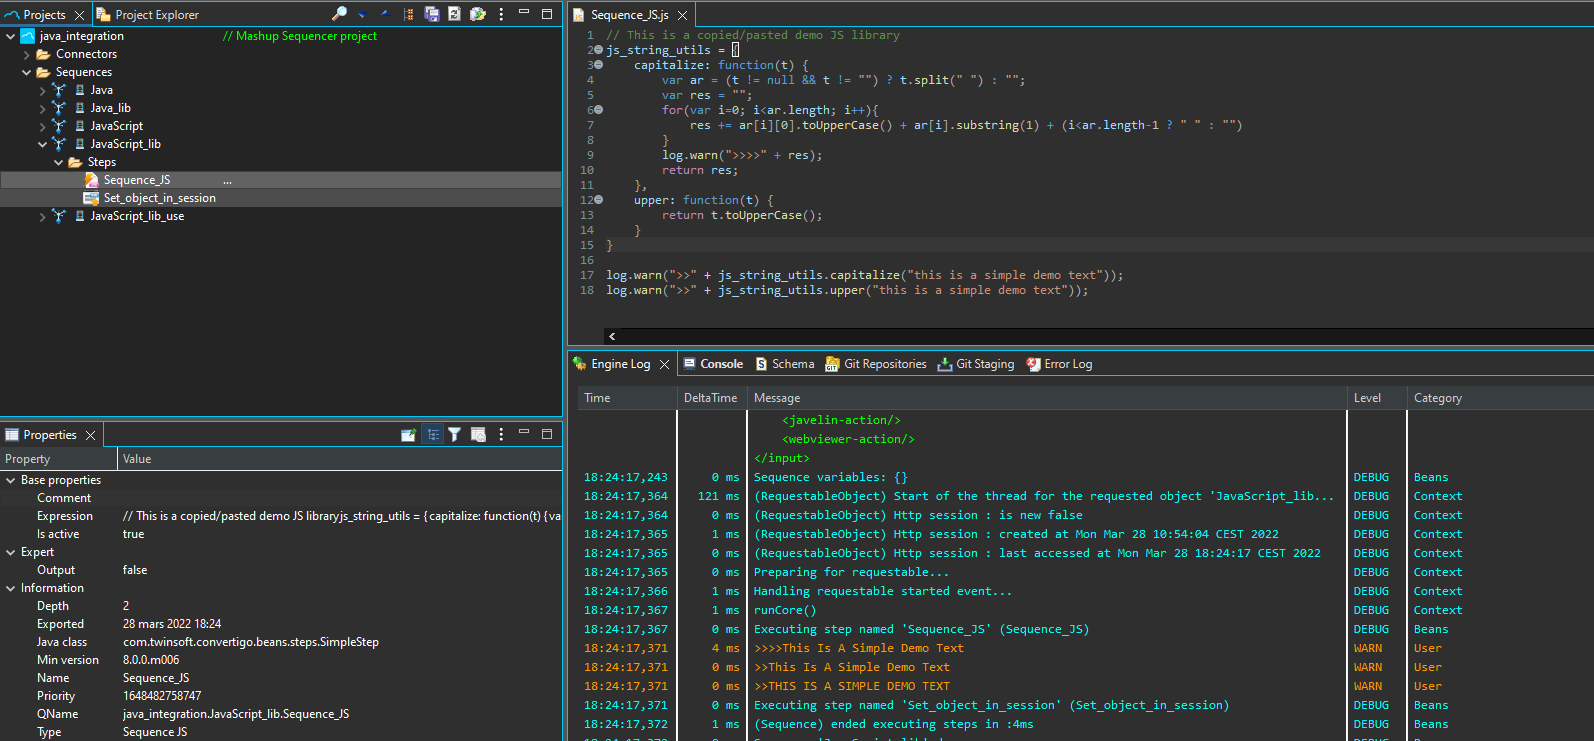
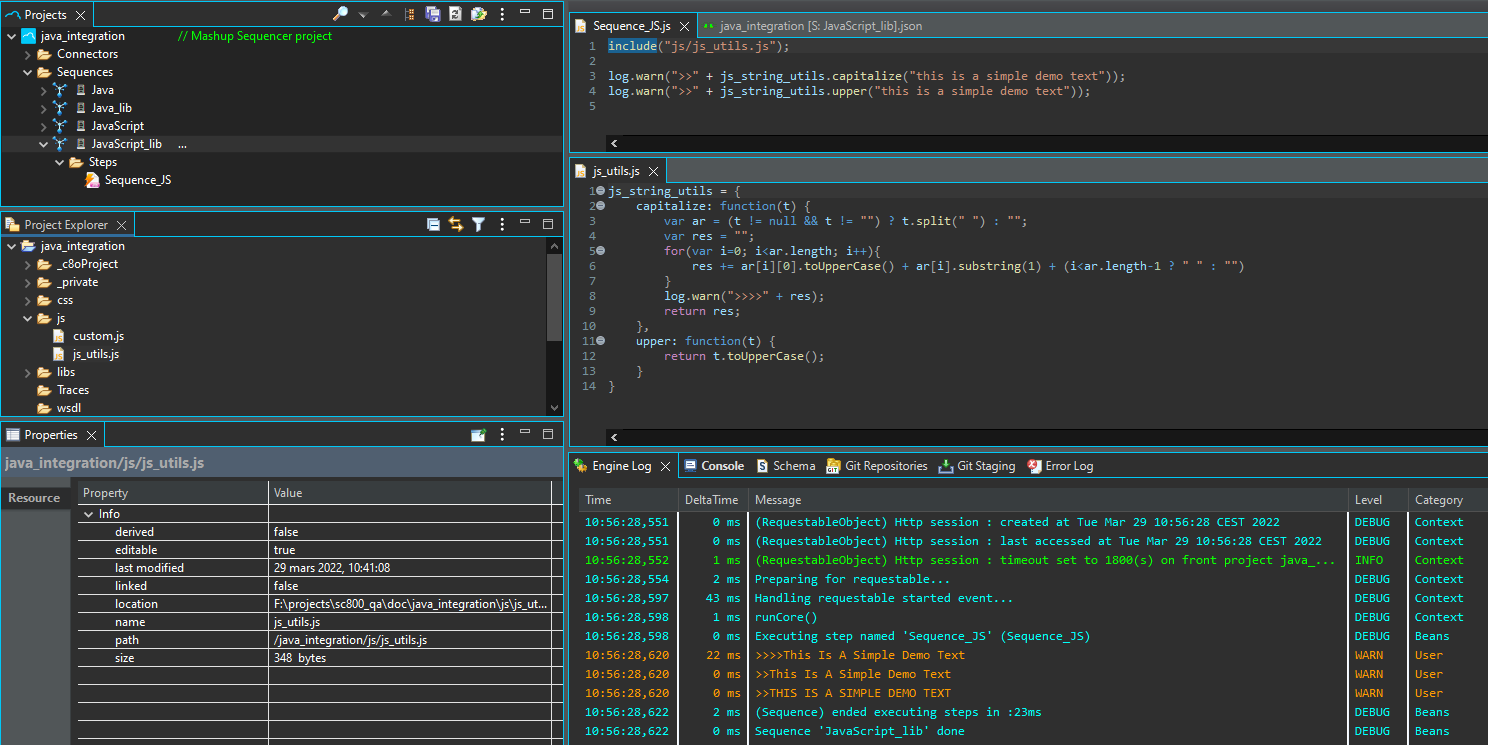
Added use of external JS library

Changed region(s): [[0.0, 0.0, 1.0, 1.0], [0.5874, 0.2794, 0.6492, 0.3104]]

diff --git a/programming-guide/backend-developers/index.md b/programming-guide/backend-developers/index.md
@@ -394,6 +394,10 @@ Often, to display and use properly variables data, you will have to convert them
 ![Step Call Transaction Source Picker](../../images/pguide_img/backend/js/sequence_js_number_string_cast.png)
 
 ##### Using third party JavaScript libraries
+
+To use an external JS library, copy the JS file in your project and in a **Sequence JS** Step use function '**include("<path_to_js_file>")**' to load file. This will automatically eval script in the Sequence JS scope and you can use it in a **Sequence JS** Step or in **JS element** Steps.
+
+![Step Call Transaction Source Picker](../../images/pguide_img/backend/js/sequence_js_external_lib.png)
 ### Reading & Writing data files
 
 ### Understanding session management
